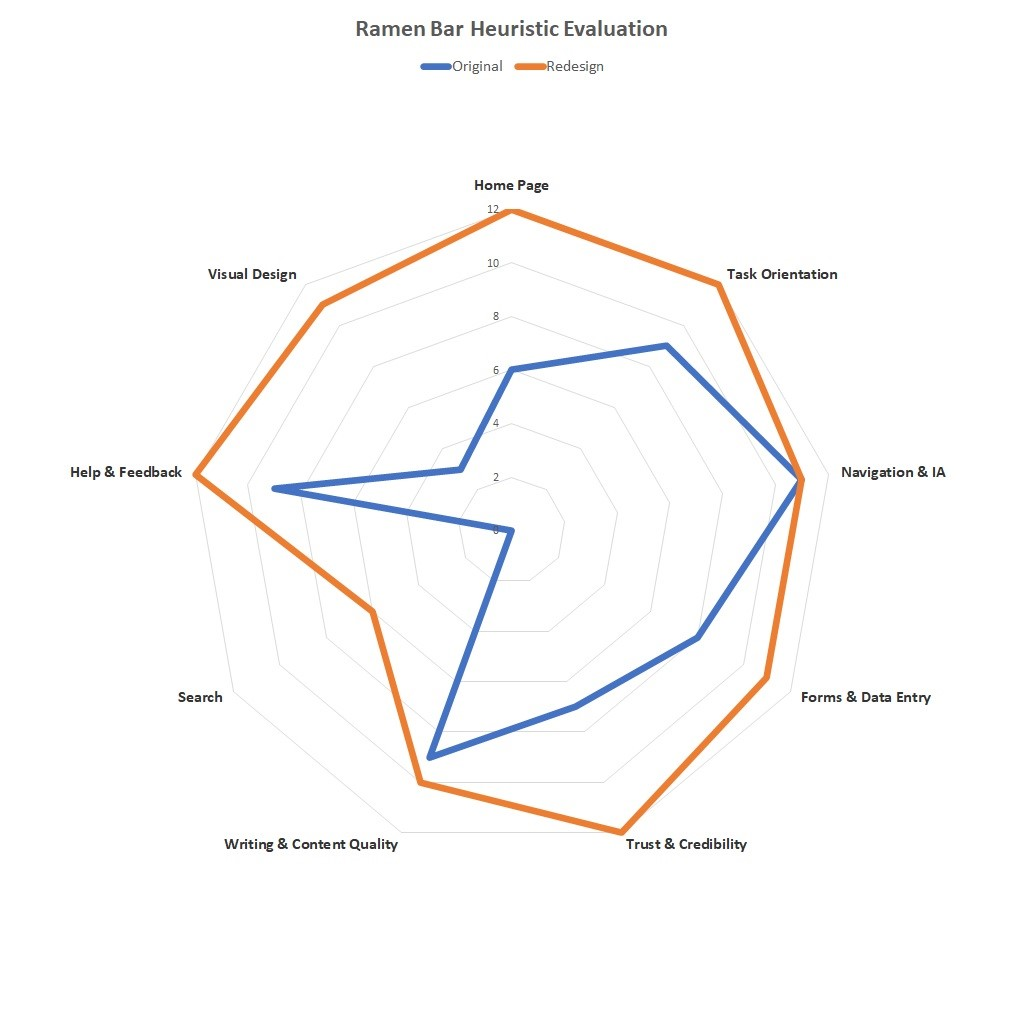
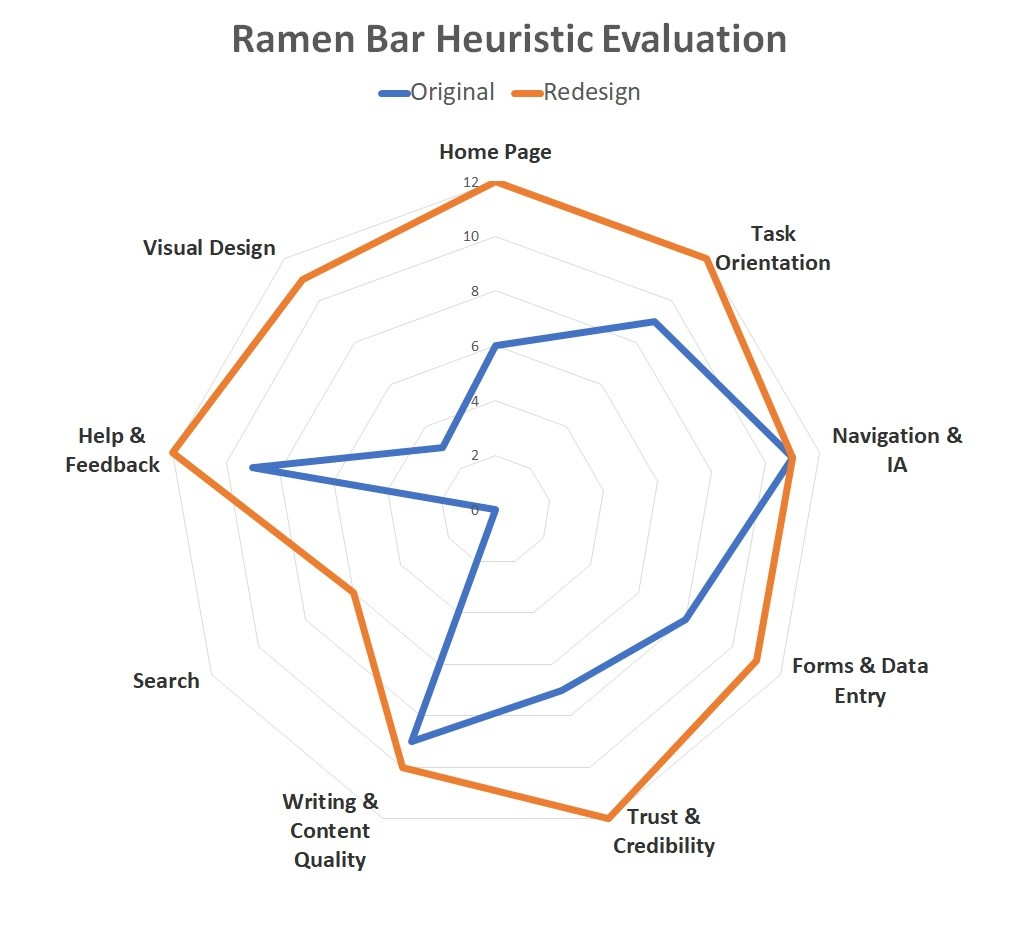
final edits for ramen bar

diff --git a/project-ramen-bar.html b/project-ramen-bar.html
@@ -62,7 +62,7 @@
                     Ramen Bar was doing the opposite: </p>
                 <picture>
                     <source media="(min-width: 750px)" srcset="portfolio-assets/case-study-ramenbar/project-definition/problem_desktop.png">
-                    <img id="ramen-problem" src="portfolio-assets/case-study-ramenbar/project-definition/problem_tablet.png" alt="Original website's design problems">
+                    <img id="ramen-problem" src="portfolio-assets/case-study-ramenbar/project-definition/problem_tablet.png" title="Original website's design problems" alt="Original website's design problems">
                 </picture>
                 <p> Understanding the gap between the users’ needs and the website’s performance, I laid out the 
                     main user tasks I needed to focus on and the goals I wanted to achieve at the end of the project. </p>
@@ -71,13 +71,13 @@
                     <!-- <source media="(min-width: 500px)" srcset="portfolio-assets/case-study-ramenbar/project-definition/project-plan_tablet.jpg"> -->
                     <figure>
                         <picture id="ramen-wrapper7">
-                            <img class="imgModal" src="portfolio-assets/case-study-ramenbar/project-definition/main-user-task.png" alt="Main user tasks of the website">
-                            <img class="imgModal" src="portfolio-assets/case-study-ramenbar/project-definition/redesign-plan.png" alt="How I plan to redesign the site">
+                            <img class="imgModal" src="portfolio-assets/case-study-ramenbar/project-definition/main-user-task.png" title="Main user tasks of the website" alt="Main user tasks of the website">
+                            <img class="imgModal" src="portfolio-assets/case-study-ramenbar/project-definition/redesign-plan.png" title="How I plan to redesign the site" alt="How I plan to redesign the site">
                         </picture>
                         <figcaption> Project Plan </figcaption>
                     </figure>
                     <figure>
-                        <img class="imgModal" id="ramen-persona" src="portfolio-assets/case-study-ramenbar/project-definition/user-persona_tablet.png" alt="User Persona">
+                        <img class="imgModal" id="ramen-persona" src="portfolio-assets/case-study-ramenbar/project-definition/user-persona_tablet.png" title="User Persona" alt="User Persona">
                         <figcaption> User Persona </figcaption>
                     </figure>
                 </div>
@@ -96,14 +96,14 @@
                     <figure>
                         <picture>
                             <!-- <source media="(min-width: 500px)" srcset="portfolio-assets/case-study-ramenbar/project-definition/card-sorting-1_tablet.jpg"> -->
-                            <img class="imgModal" src="portfolio-assets/case-study-ramenbar/project-definition/card-sorting-1_tablet.jpg" alt="Card Sorting exercise (1)">
+                            <img class="imgModal" src="portfolio-assets/case-study-ramenbar/project-definition/card-sorting-1_tablet.jpg" title="Card Sorting exercise (1)" alt="Card Sorting exercise (1)">
                         </picture>
                         <figcaption> Card Sorting data analysis (1) </figcaption>
                     </figure>
                     <figure>
                         <picture>
                             <!-- <source media="(min-width: 500px)" srcset="portfolio-assets/case-study-ramenbar/project-definition/card-sorting-2_tablet.jpg"> -->
-                            <img class="imgModal" src="portfolio-assets/case-study-ramenbar/project-definition/card-sorting-2_tablet.jpg" alt="Card Sorting exercise (2)">
+                            <img class="imgModal" src="portfolio-assets/case-study-ramenbar/project-definition/card-sorting-2_tablet.jpg" title="Card Sorting exercise (2)" alt="Card Sorting exercise (2)">
                         </picture>
                         <figcaption> Card Sorting data analysis (2) </figcaption>
                     </figure>
@@ -111,7 +111,7 @@
                 <figure>
                     <picture>
                         <!-- <source media="(min-width: 500px)" srcset="portfolio-assets/case-study-ramenbar/project-definition/new-site-map_tablet.jpg"> -->
-                        <img class="imgModal" id="ramen-newmap" src="portfolio-assets/case-study-ramenbar/project-definition/new-site-map_tablet.jpg" alt="New site map">
+                        <img class="imgModal" id="ramen-newmap" src="portfolio-assets/case-study-ramenbar/project-definition/new-site-map_tablet.jpg" title="New site map" alt="New site map">
                     </picture>
                     <figcaption> New site map for the redesign site </figcaption>
                 </figure>
@@ -131,10 +131,6 @@
                     </div>
                     <iframe allowfullscreen src="https://youtube.com/embed/qF-Jquo6iNA"></iframe>
                 </div>
-                <p> Moving from desktop to tablet and mobile devices, I deliberated how the content and design elements 
-                    should be shifted between screens to maintain <strong>consistency and responsiveness.</strong> 
-                    Small design details emphasizing <strong>accessibility</strong>, such as how big the buttons should be in order to be clickable on mobile 
-                    screens, were also paid close attention to.</p>
                 
                 <div id="ramen-wrapper3">
                     <figure>
@@ -152,6 +148,13 @@
                         <figcaption> Responsive wireframes for homepage (Desktop - Tablet - Mobile) </figcaption>
                     </figure>
                 </div>
+
+                <p> Moving from desktop to tablet and mobile devices, I treated them as a completely new design: 
+                    playing around with creativity to create some eye-catching visual elements. However, not until 
+                    my testers commented on <strong>the discrepancy between screen sizes</strong> did I realize my huge design mistake. </p>
+                <p> In the second round, I deliberated how the content and design elements should be shifted between 
+                    screens to <strong>maintain consistency and responsiveness</strong>. Moreover, I started paying attention to 
+                    <strong>accessibility</strong>, such as how big the buttons should be in order to be clickable on mobile screens. </p>
             </div>
 
             <div>
@@ -198,7 +201,27 @@
             </div>
 
             <div>
-                <h2 class="cstudy-sec-name"> &nbsp;5.&nbsp;&nbsp;That’s not the End of the Story yet </h2>
+                <h2 class="cstudy-sec-name"> &nbsp;5.&nbsp;&nbsp;Users have now enjoyed using the website </h2>
+                <p> I asked for final feedback from users whom I was working with throughout the project to document the change in their opinions on the website. </p>
+                <p> All 6 users recognized a huge improvement in <strong>visual design and content layout</strong> 
+                    of the site. Another major feature of the redesigned site is the <strong>function of making online orders</strong>, which got positive comments from the users. </p>
+                <div id="ramen-wrapper8">
+                    <figure>
+                        <picture>
+                            <source media="(max-width: 700px)" srcset="portfolio-assets/case-study-ramenbar/feedback_mobile.png">
+                            <img class="imgModal" src="portfolio-assets/case-study-ramenbar/feedback_desktop.png" title="Users' thoughts on the new website" alt="Users' thoughts on the new website">
+                        </picture>
+                        <figcaption> Users' thoughts on the new website </figcaption>
+                    </figure>
+                    <figure>
+                        <img class="imgModal" src="portfolio-assets/case-study-ramenbar/heuristic.jpg" title="Heuristic Evaluation for the original and new websites" alt="Heuristic Evaluation for the original and new websites">
+                        <figcaption> Heuristic Evaluation for the original and new websites </figcaption>
+                    </figure>
+                </div>
+            </div>
+
+            <div>
+                <h2 class="cstudy-sec-name"> &nbsp;6.&nbsp;&nbsp;That’s not the End of the Story yet </h2>
                 <p> UX design is an <strong>iterative and never-ending process.</strong> I believe there’s no perfect 
                     end result of a project - there’ll be problems arising over the time. That’s why recently (April 
                     2023) I’ve decided to continue refining the design even though the project was supposed to be 
@@ -211,11 +234,11 @@
                 </figure>
             </div>
 
-            <p id="cstudy-outro"> The project's result is the site’s most important pages on 
-                three devices, showing considerable improvement in the design and flexibility in transition 
-                between distinct screen sizes. The whole process also helped enhance my design skills and 
-                confidence in UI design. Getting multiple positive and constructive opinions from people, the 
-                project laid the groundwork for my future projects.</p>
+            <p id="cstudy-outro"> Through my first hands-on experience, I have learned the basics of UX design 
+                process: (conduct user research, design wireframes and prototypes). My biggest lesson: <strong>Design for 
+                people, and with people.</strong> I have practiced not putting my assumptions or personal preference into 
+                the design process. I want to apply these lessons to the continuing project of improving this design 
+                and future projects in class and internships.</p>
             <figure>
                 <img id="ramen-gif" src="portfolio-assets/case-study-ramenbar/spinnyramensmall.gif" alt="Ramen illustration">
                 <figcaption> Are you craving for ramen right now? </figcaption>

diff --git a/styles.css b/styles.css
@@ -787,7 +787,7 @@ input[type=text], #message {
         margin: 0;
         width: 100%;
     }
-    #star-wrapper1, #star-wrapper2, #star-wrapper3, #star-wrapper4, #ramen-wrapper2, #ramen-wrapper3, #ramen-wrapper4, #ramen-wrapper5, #viet-wrapper1 {
+    #star-wrapper1, #star-wrapper2, #star-wrapper3, #star-wrapper4, #ramen-wrapper2, #ramen-wrapper3, #ramen-wrapper4, #ramen-wrapper5, #ramen-wrapper8, #viet-wrapper1 {
         display: flex;
         align-items: center;
         column-gap: 2rem;
@@ -806,7 +806,7 @@ input[type=text], #message {
     #unify-survey {
         width: 80%;
     }
-    #star-quotes, #star-charts img, #bubbly-cardsort, #bubbly-rebrand, #ramen-persona, #ramen-wrapper2 img, #ramen-wrapper6 img {
+    #star-quotes, #star-charts img, #bubbly-cardsort, #bubbly-rebrand, #ramen-persona, #ramen-wrapper2 img, #ramen-wrapper6 img, #ramen-wrapper8 img {
         width: 100%;
     }
     #bubbly-wrapper3 {
